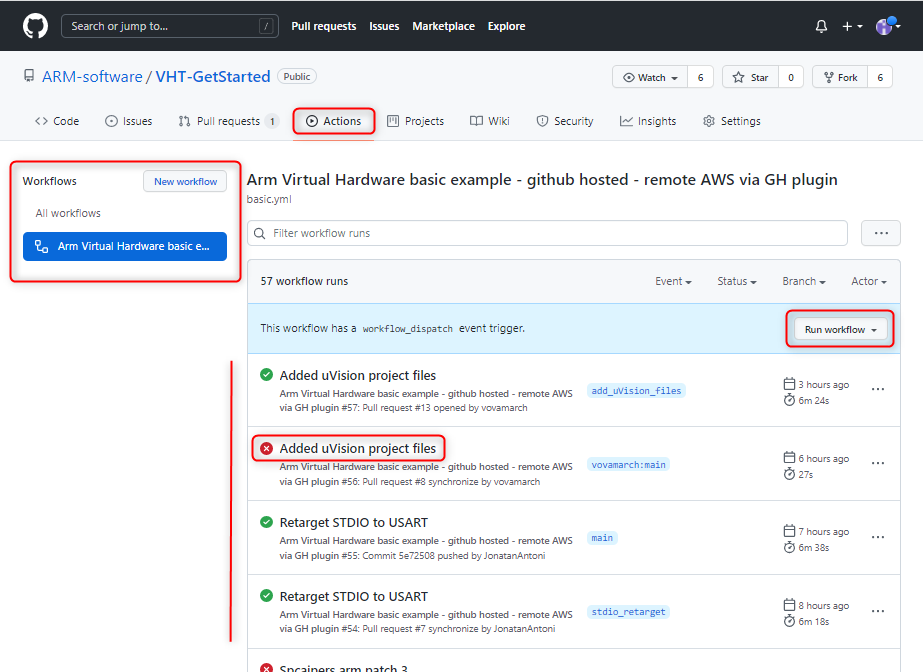
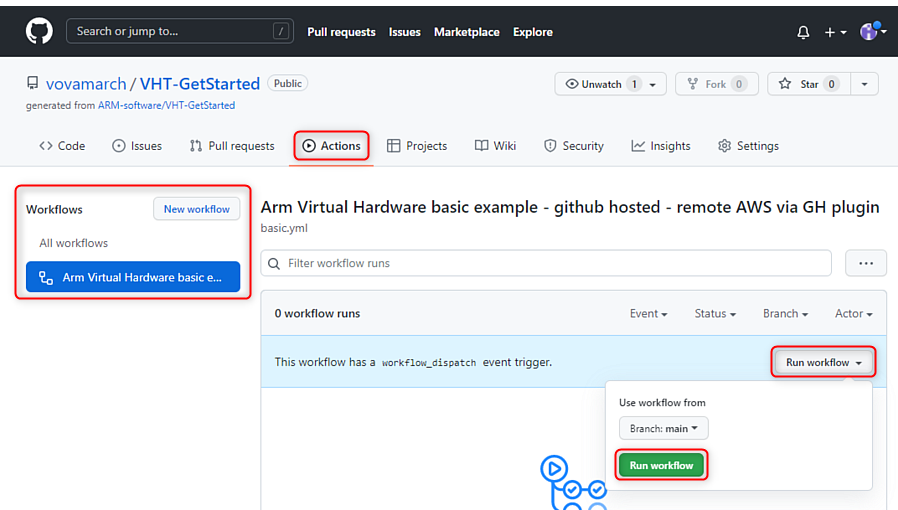
Updated description of CI run for GetStarted

diff --git a/DoxyGen/examples/src/GetStarted.md b/DoxyGen/examples/src/GetStarted.md
@@ -167,11 +167,14 @@ CI pipeline gets executed automatically on every code change in the _main_ branc
 
  - Go to the GitHub web-page of the repository.
  - Go to _Actions_ tab.
-  - In _Workflows_ area you can see the list of GitHub workflows defined in the repository. In our example it is just one.
- - Select the workflow and its executions will be displayed on the page. An icon before the title of each run indicates whether CI pipeline execution was successfully or not. A failure indicates an issue in CI 
-  -  With _Run workflow_ you can manually trigger execution of this workflow on the current codebase.
+  - In _Workflows_ area you can see the list of GitHub workflows defined in the repository. In our example there is just one.
+ - Select the workflow and its runs will be displayed on the page. Immediately after copying the repository the workflow is not executed yet.
+   -  Use _Run workflow_ to manually trigger execution of this workflow on the initial codebase.<br>
     ![GitHub Actions view](images/basic_gh_actions.png)
- - Click on the title of a workflow run to analyze its execution as explained in next section.
+   - Wait until workflow execution is completed.<br>
+     In this example it shall have success status indicated with a green circle icon. This means that the CI pipeline execution was successful, but does not consider the actual test results (where one unit test is intentionally failing).<br>
+   ![GitHub Actions view](images/basic_gh_ci_default.png)
+ - Click on the title of the workflow run to analyze its execution as explained in next section.
 
 ## Analyze failures {#GS_AnalyseFailure}
 
